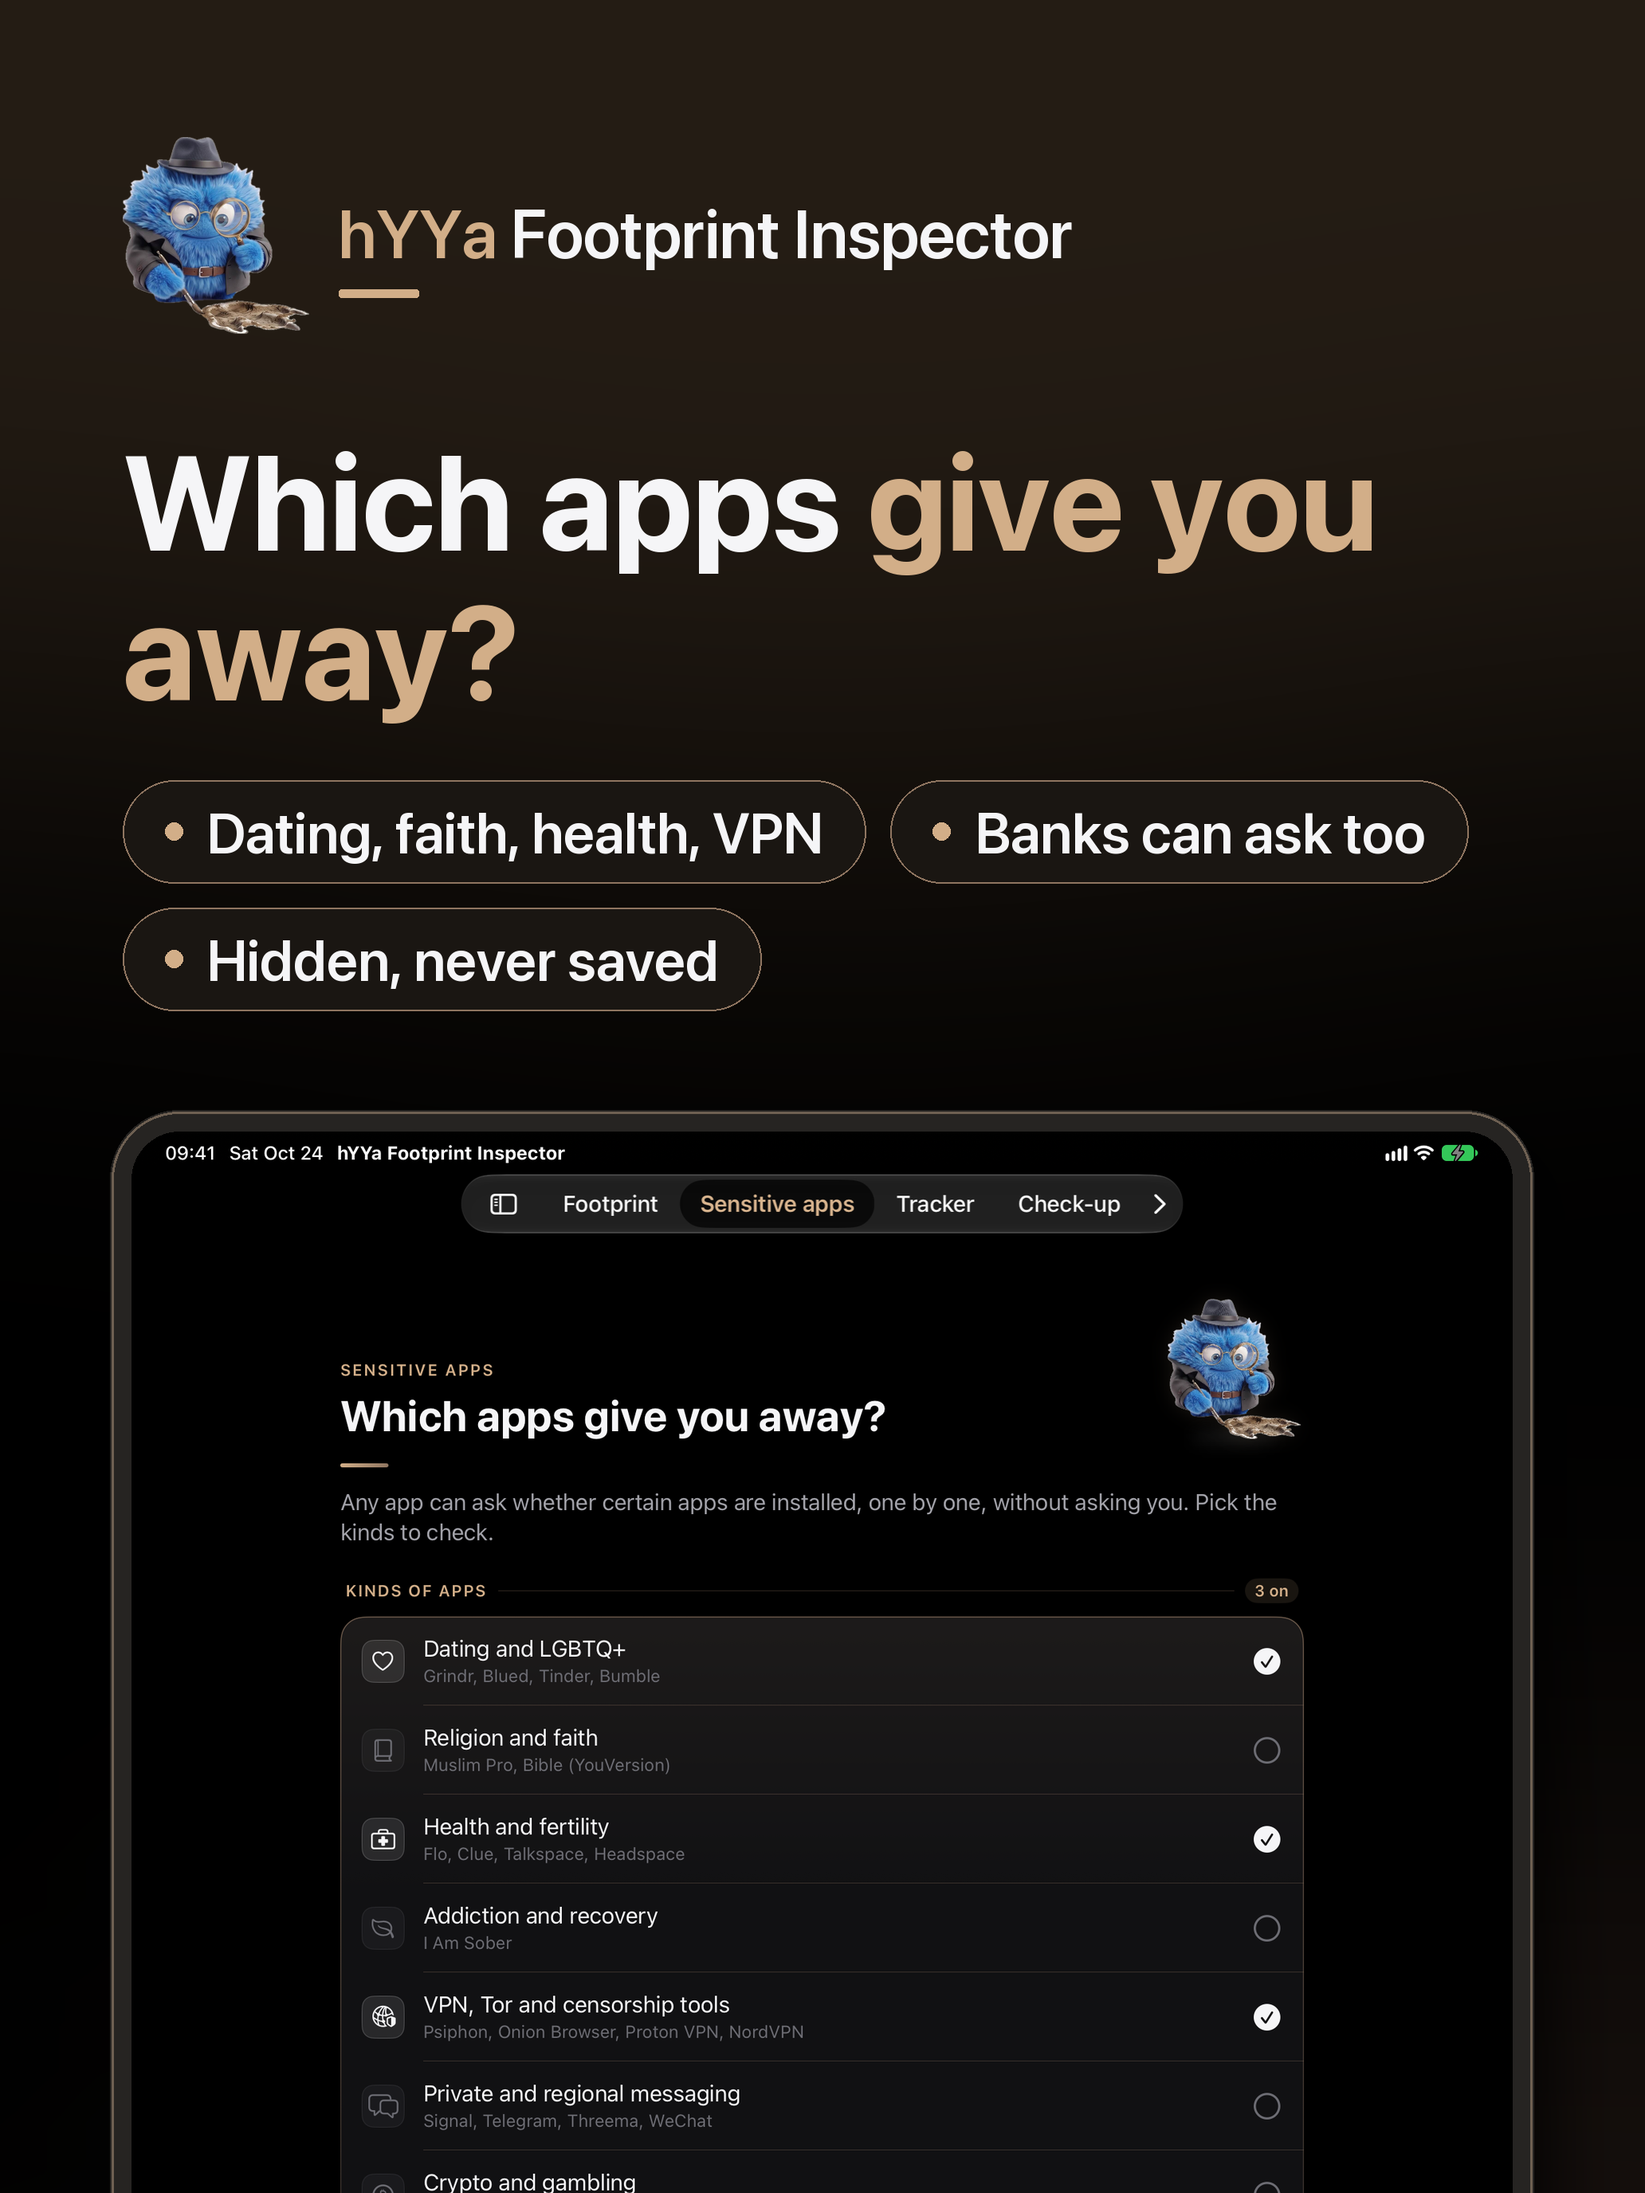
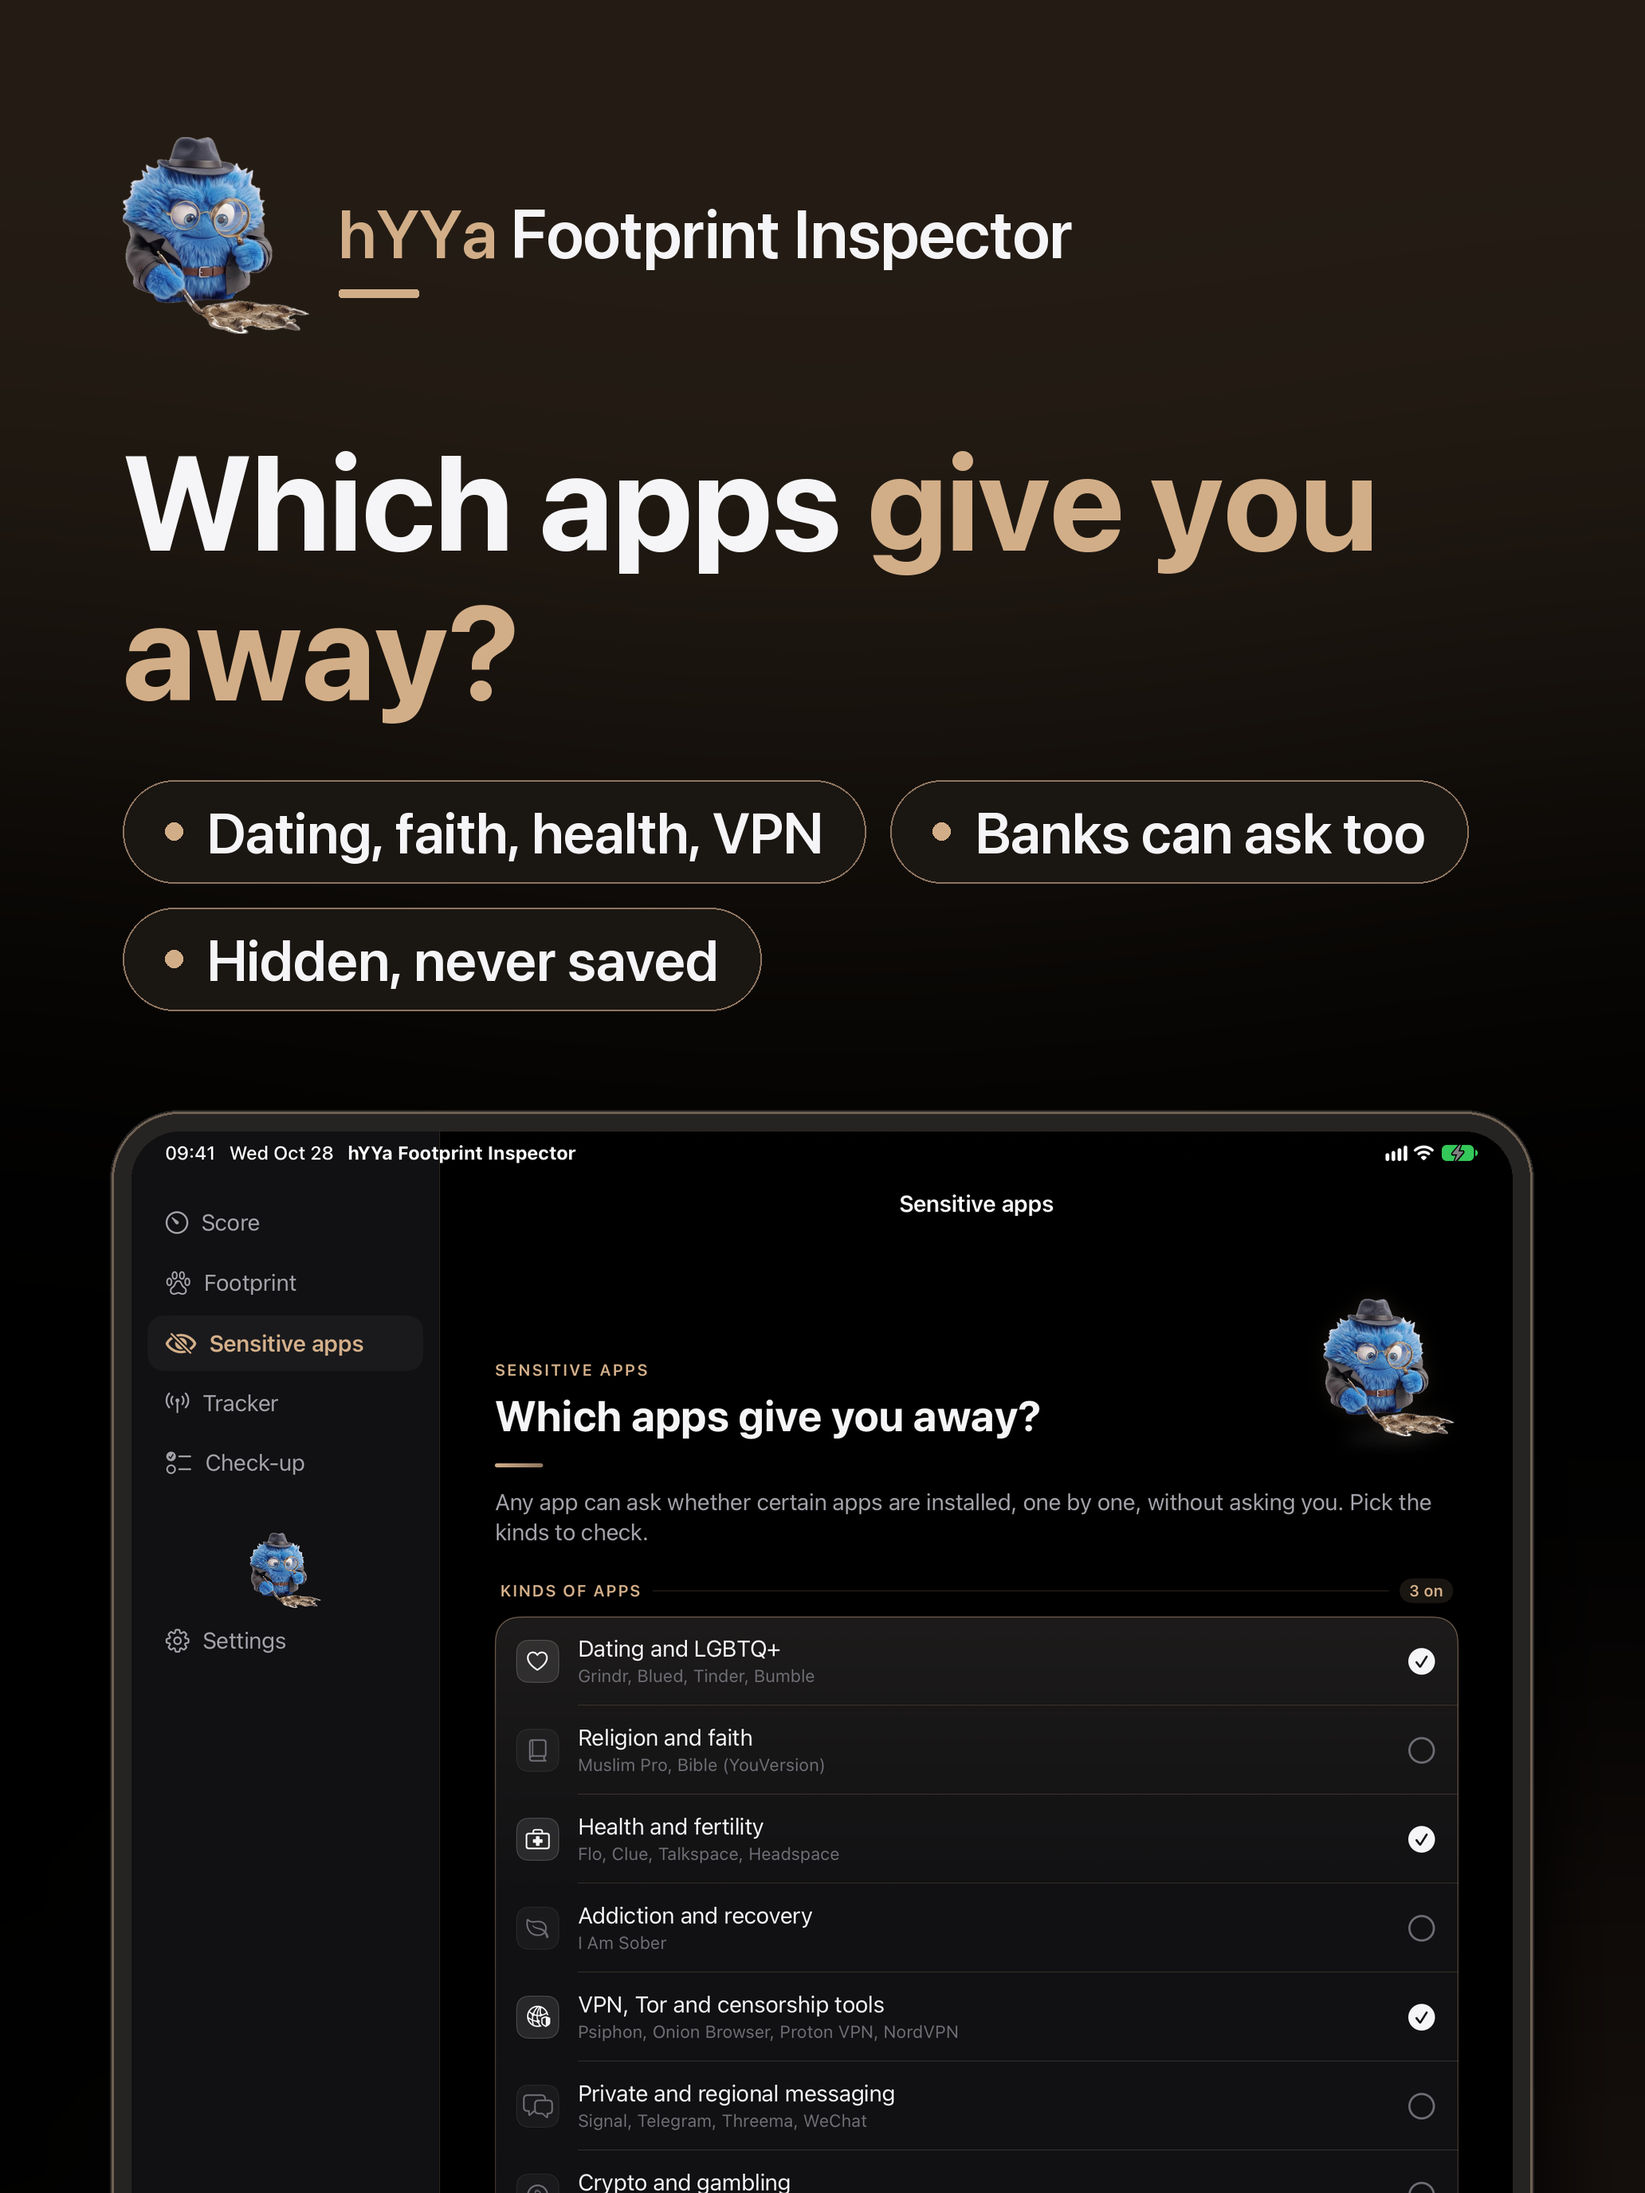
1.0.2 build 18: uploaded and attached for iOS and Mac; Score page slides for iPhone and iPad; store runs keep the restart clue

diff --git a/App/Sources/Readers/DeviceSources.swift b/App/Sources/Readers/DeviceSources.swift
@@ -64,7 +64,8 @@ struct SystemSource: SignalSource {
             let up = Duration.seconds(Date().timeIntervalSince(boot)).formatted(.units(allowed: [.days, .hours, .minutes], width: .abbreviated))
             var restart = SignalReading(id: "boot-time", value: Format.dateTime(boot), items: ["Running for \(up)"])
             // A restart in the last week is the fix itself, so it counts as done.
-            if RecentRestart.isRecent(boot: boot) { restart.severityOverride = .low; restart.note = RecentRestart.note }
+            // Store screenshots show a typical device, one not restarted this week.
+            if RecentRestart.isRecent(boot: boot) && !LaunchOptions.has("-sampleData") { restart.severityOverride = .low; restart.note = RecentRestart.note }
             out.append(restart)
         }
         out.append(.init(id: "low-power", value: Format.onOff(info.isLowPowerModeEnabled)))

diff --git a/App/Sources/MacReaders/MacReaders.swift b/App/Sources/MacReaders/MacReaders.swift
@@ -126,7 +126,8 @@ struct MacSystemSource: SignalSource {
                 .formatted(.units(allowed: [.days, .hours, .minutes], width: .abbreviated))
             var restart = SignalReading(id: "mac-boot-time", value: Format.dateTime(boot), items: ["Running for \(up)"])
             // A restart in the last week is the fix itself, so it counts as done.
-            if RecentRestart.isRecent(boot: boot) { restart.severityOverride = .low; restart.note = RecentRestart.note }
+            // Store screenshots show a typical device, one not restarted this week.
+            if RecentRestart.isRecent(boot: boot) && !LaunchOptions.has("-sampleData") { restart.severityOverride = .low; restart.note = RecentRestart.note }
             out.append(restart)
         }
         if let battery = Self.battery() { out.append(battery) }

diff --git a/App/Sources/FootprintInspectorApp.swift b/App/Sources/FootprintInspectorApp.swift
@@ -161,7 +161,11 @@ private struct KeepScoreFresh: ViewModifier {
 
     func body(content: Content) -> some View {
         content
-            .task { if history.latest != nil && !LaunchOptions.autoScan { await scanner.scan(quietly: true) } }
+            .task {
+                // Screenshot runs: scan from launch, whichever page opens first.
+                if LaunchOptions.autoScan && scanner.allFindings.isEmpty { await scanner.scan() }
+                else if history.latest != nil { await scanner.scan(quietly: true) }
+            }
             .onChange(of: scenePhase) { old, phase in
                 if phase == .active && old != .active && scanner.phase == .done { Task { await scanner.scan(quietly: true) } }
             }

diff --git a/UITests/StoreScreenshotsUITests.swift b/UITests/StoreScreenshotsUITests.swift
@@ -184,7 +184,13 @@ final class StoreScreenshotsUITests: XCTestCase {
         tab("Footprint"); tap("Start with check 1")
         XCTAssertTrue(app.buttons["Scan again"].waitForExistence(timeout: 20))
         sleep(2)
+        shot("store-03-footprint")
+        // The Score page with all the checks done so far, the app's first page.
+        tab("Score")
+        sleep(2)
         shot("store-02-results")
+        tab("Footprint")
+        sleep(1)
 
         let clue = app.buttons.containing(NSPredicate(format: "label CONTAINS 'last restart'")).firstMatch
         scrollTo(clue, max: 14)

diff --git a/App/Sources/UI/CheckUpView.swift b/App/Sources/UI/CheckUpView.swift
@@ -80,7 +80,7 @@ struct CheckUpView: View {
 struct CheckUpStepView: View {
     /// The restart step exists on phones only; a Mac's restart is in its Footprint findings.
     static var restartedRecently: Bool {
-        guard CheckUpGuide.steps.contains(where: { $0.id == "restart" }), let boot = Sysctl.bootTime() else { return false }
+        guard !LaunchOptions.has("-sampleData"), CheckUpGuide.steps.contains(where: { $0.id == "restart" }), let boot = Sysctl.bootTime() else { return false }
         return RecentRestart.isRecent(boot: boot)
     }
 
